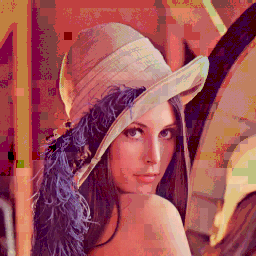
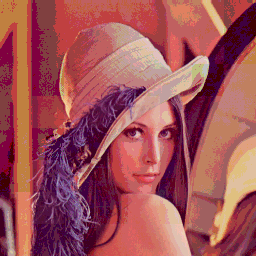
modify RobustLSB default params

diff --git a/watermarks/rlsb.py b/watermarks/rlsb.py
@@ -4,7 +4,7 @@ from watermarks.base_watermark import BaseWatermark
 
 
 class RobustLSB(BaseWatermark):
-    def __init__(self, k=8, threshold=0.97, verbose=False, save_watermark=False):
+    def __init__(self, k=32, threshold=0.97, verbose=False, save_watermark=False):
         BaseWatermark.__init__(self, save_watermark)
         self.k = k  # divide the image and watermark into blocks, whose shape is k * k
         self.threshold = threshold
